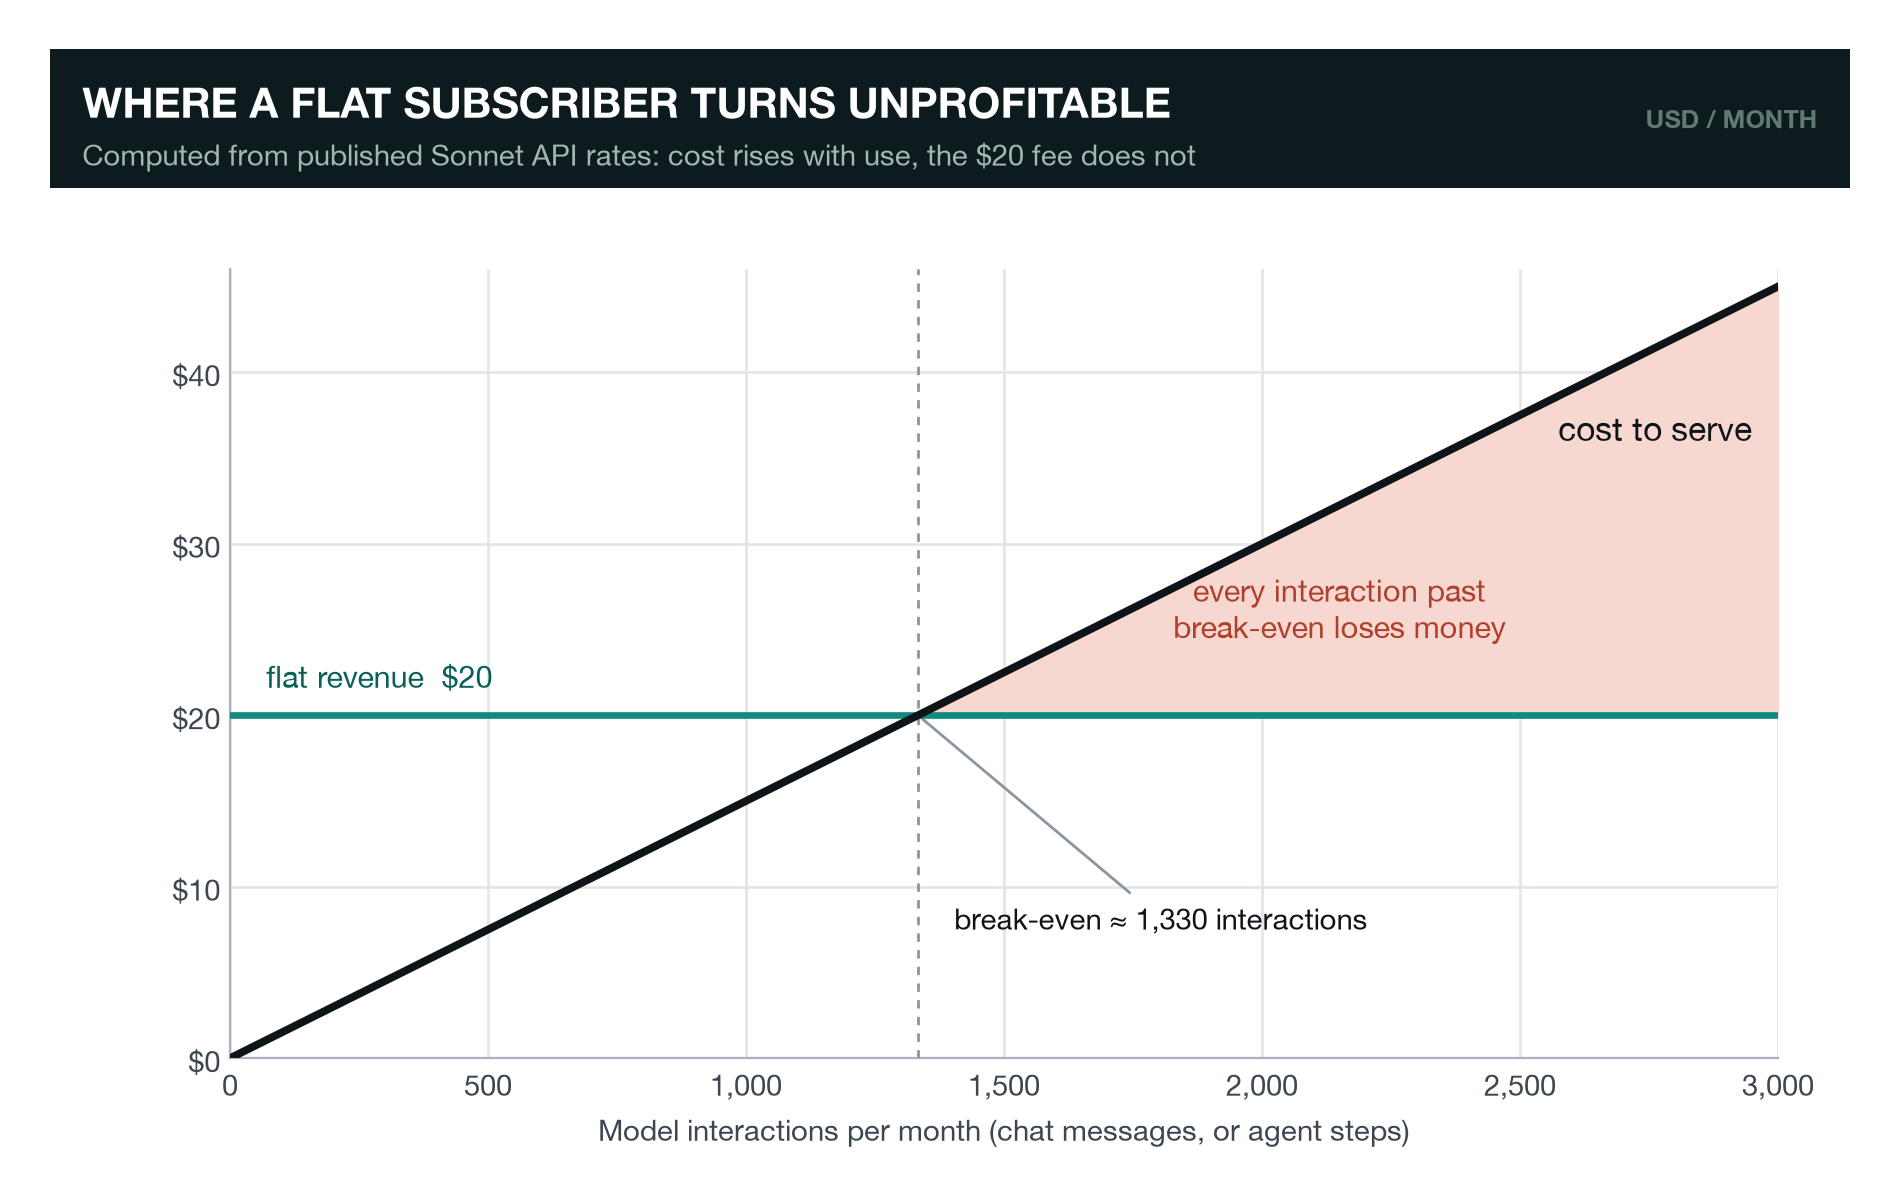
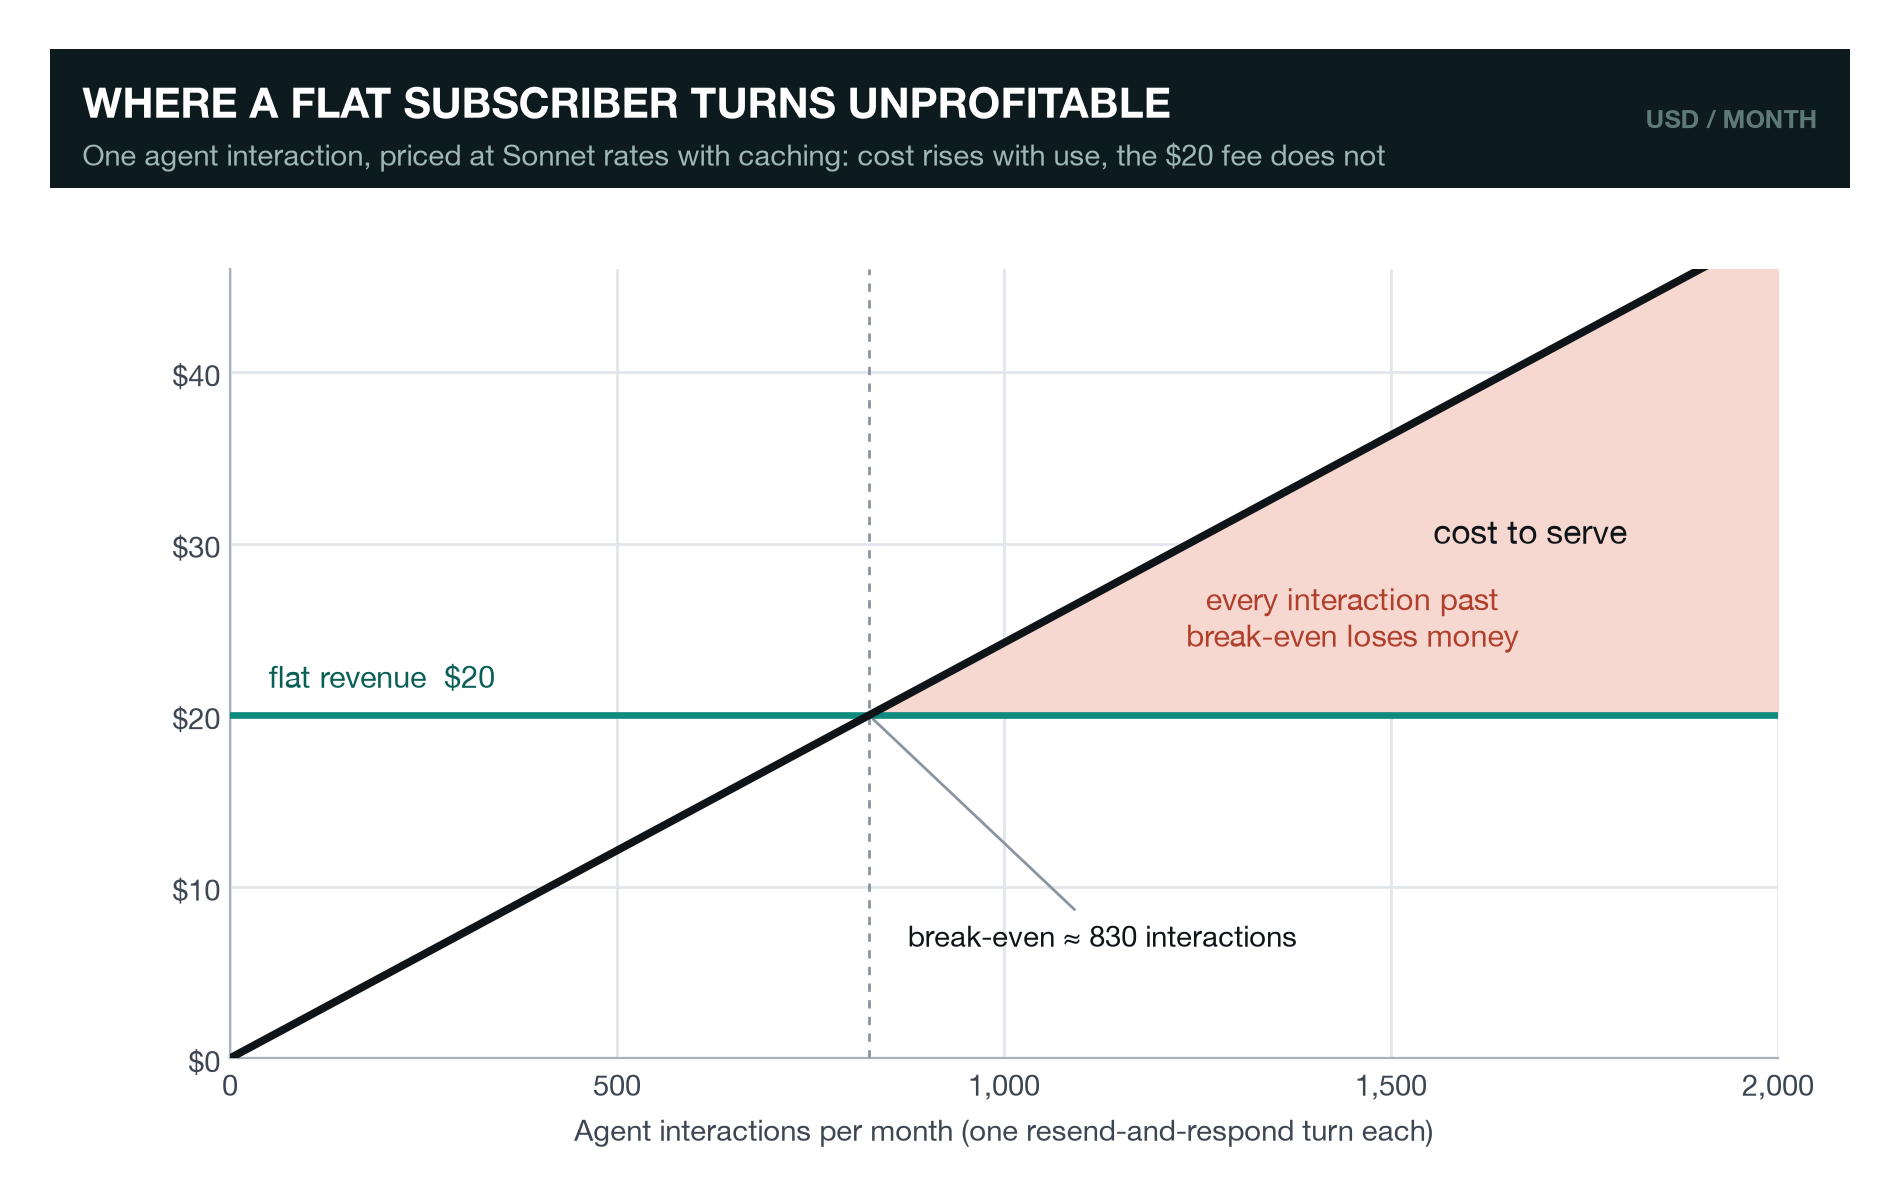
Switch Chart B to agent-interaction model with prompt caching

diff --git a/src/chart_data.py b/src/chart_data.py
@@ -76,14 +76,31 @@ SUBSIDY = [
 SUBSIDY_OBSERVED = ("Max 20x\n$200", 1588)
 
 # ---------------------------------------------------------------------------
-# CHART B — Crossover for a single subscriber (COMPUTED, unchanged method)
-# Computed from Sonnet 4.6 published rate ($3/$15 per 1M tokens) with a stated
-# per-interaction token model. Break-even ~1,300 interactions/mo for flat $20.
+# CHART B — Crossover for a single subscriber (COMPUTED).
+# Models one AGENT INTERACTION with prompt caching, priced at Sonnet 4.6.
+#
+# DEFINITION OF AN "INTERACTION": one agent turn. The agent resends the growing
+# conversation as context, the model responds, the agent acts on it. This is the
+# unit that loops dozens of times to complete a single task.
+#
+# PER-INTERACTION TOKEN MODEL (with prompt caching, same basis as Chart A):
+#   cached_context  12,000 tokens  billed at cache-read 0.1x input
+#   fresh_input      1,500 tokens  billed at full input
+#   cache_write      1,500 tokens  billed at 1.25x input
+#   output             700 tokens  billed at full output
+# Rates: Sonnet 4.6 $3 input / $15 output per 1M tokens (Anthropic pricing page).
+#   -> cost/interaction ~= $0.0242  -> break-even ~826 interactions/mo vs flat $20.
+# (Without caching the same agent turn costs ~$0.051 and breaks even at ~390; caching
+#  RAISES the break-even. We model the cheaper, caching case to stay conservative.)
 CROSSOVER = {
-    "in_tokens_per_task": 1500,
-    "out_tokens_per_task": 700,
+    "cached_tokens": 12000,
+    "fresh_in_tokens": 1500,
+    "cache_write_tokens": 1500,
+    "out_tokens": 700,
     "in_rate_per_token": 3 / 1e6,
     "out_rate_per_token": 15 / 1e6,
+    "cache_read_rate_per_token": 0.30 / 1e6,   # 0.1x input
+    "cache_write_rate_per_token": 3.75 / 1e6,  # 1.25x input
     "flat_revenue": 20.0,
 }
 

diff --git a/src/make_charts.py b/src/make_charts.py
@@ -126,15 +126,18 @@ def chart_subsidy():
 # ===========================================================================
 def chart_crossover():
     c = D.CROSSOVER
-    cpt = (c["in_tokens_per_task"]*c["in_rate_per_token"]
-           + c["out_tokens_per_task"]*c["out_rate_per_token"])
+    # cost per interaction = cached context (0.1x) + fresh input + cache write (1.25x) + output
+    cpt = (c["cached_tokens"]      * c["cache_read_rate_per_token"]
+           + c["fresh_in_tokens"]  * c["in_rate_per_token"]
+           + c["cache_write_tokens"] * c["cache_write_rate_per_token"]
+           + c["out_tokens"]       * c["out_rate_per_token"])
     REV = c["flat_revenue"]
     be = REV / cpt
     x = np.linspace(0, 3000, 240)
     cost = x * cpt
 
     fig, ax, _ = _frame("Where a flat subscriber turns unprofitable",
-                        "Computed from published Sonnet API rates: cost rises with use, the $20 fee does not",
+                        "One agent interaction, priced at Sonnet rates with caching: cost rises with use, the $20 fee does not",
                         "USD / MONTH")
     ax.grid(True, color=GRID, lw=1)
 
@@ -145,19 +148,18 @@ def chart_crossover():
     ax.axvline(be, color=MUTE, lw=1, ls=(0, (3, 3)), zorder=3)
 
     ax.annotate(f"break-even ≈ {int(round(be,-1)):,} interactions",
-                xy=(be, REV), xytext=(be+70, 7.5), fontsize=10.5, color=INK,
+                xy=(be, REV), xytext=(be+50, 6.5), fontsize=10.5, color=INK,
                 arrowprops=dict(arrowstyle="-", color=MUTE, lw=1))
-    ax.text(70, REV+1.6, "flat revenue  $20", fontsize=11, color=TEALD)
-    ax.text(2950, cost[-1]*0.80, "cost to serve", ha="right", fontsize=12,
-            color=INK)
-    ax.text(2150, REV + (cost[-1]-REV)*0.18, "every interaction past\nbreak-even loses money",
+    ax.text(50, REV+1.6, "flat revenue  $20", fontsize=11, color=TEALD)
+    ax.text(1680, 30, "cost to serve", ha="center", fontsize=12, color=INK)
+    ax.text(1450, 24, "every interaction past\nbreak-even loses money",
             fontsize=11, color=CORALD, ha="center")
 
-    ax.set_xlim(0, 3000); ax.set_ylim(0, 46)
+    ax.set_xlim(0, 2000); ax.set_ylim(0, 46)
     ax.xaxis.set_major_locator(MultipleLocator(500))
     ax.xaxis.set_major_formatter(FuncFormatter(lambda v, _: f"{int(v):,}"))
     ax.yaxis.set_major_formatter(FuncFormatter(lambda v, _: f"${int(v)}"))
-    ax.set_xlabel("Model interactions per month (chat messages, or agent steps)",
+    ax.set_xlabel("Agent interactions per month (one resend-and-respond turn each)",
                   fontsize=10.5, color=TXT)
     _save(fig, "charts/chartB_crossover.png")
     return cpt, be